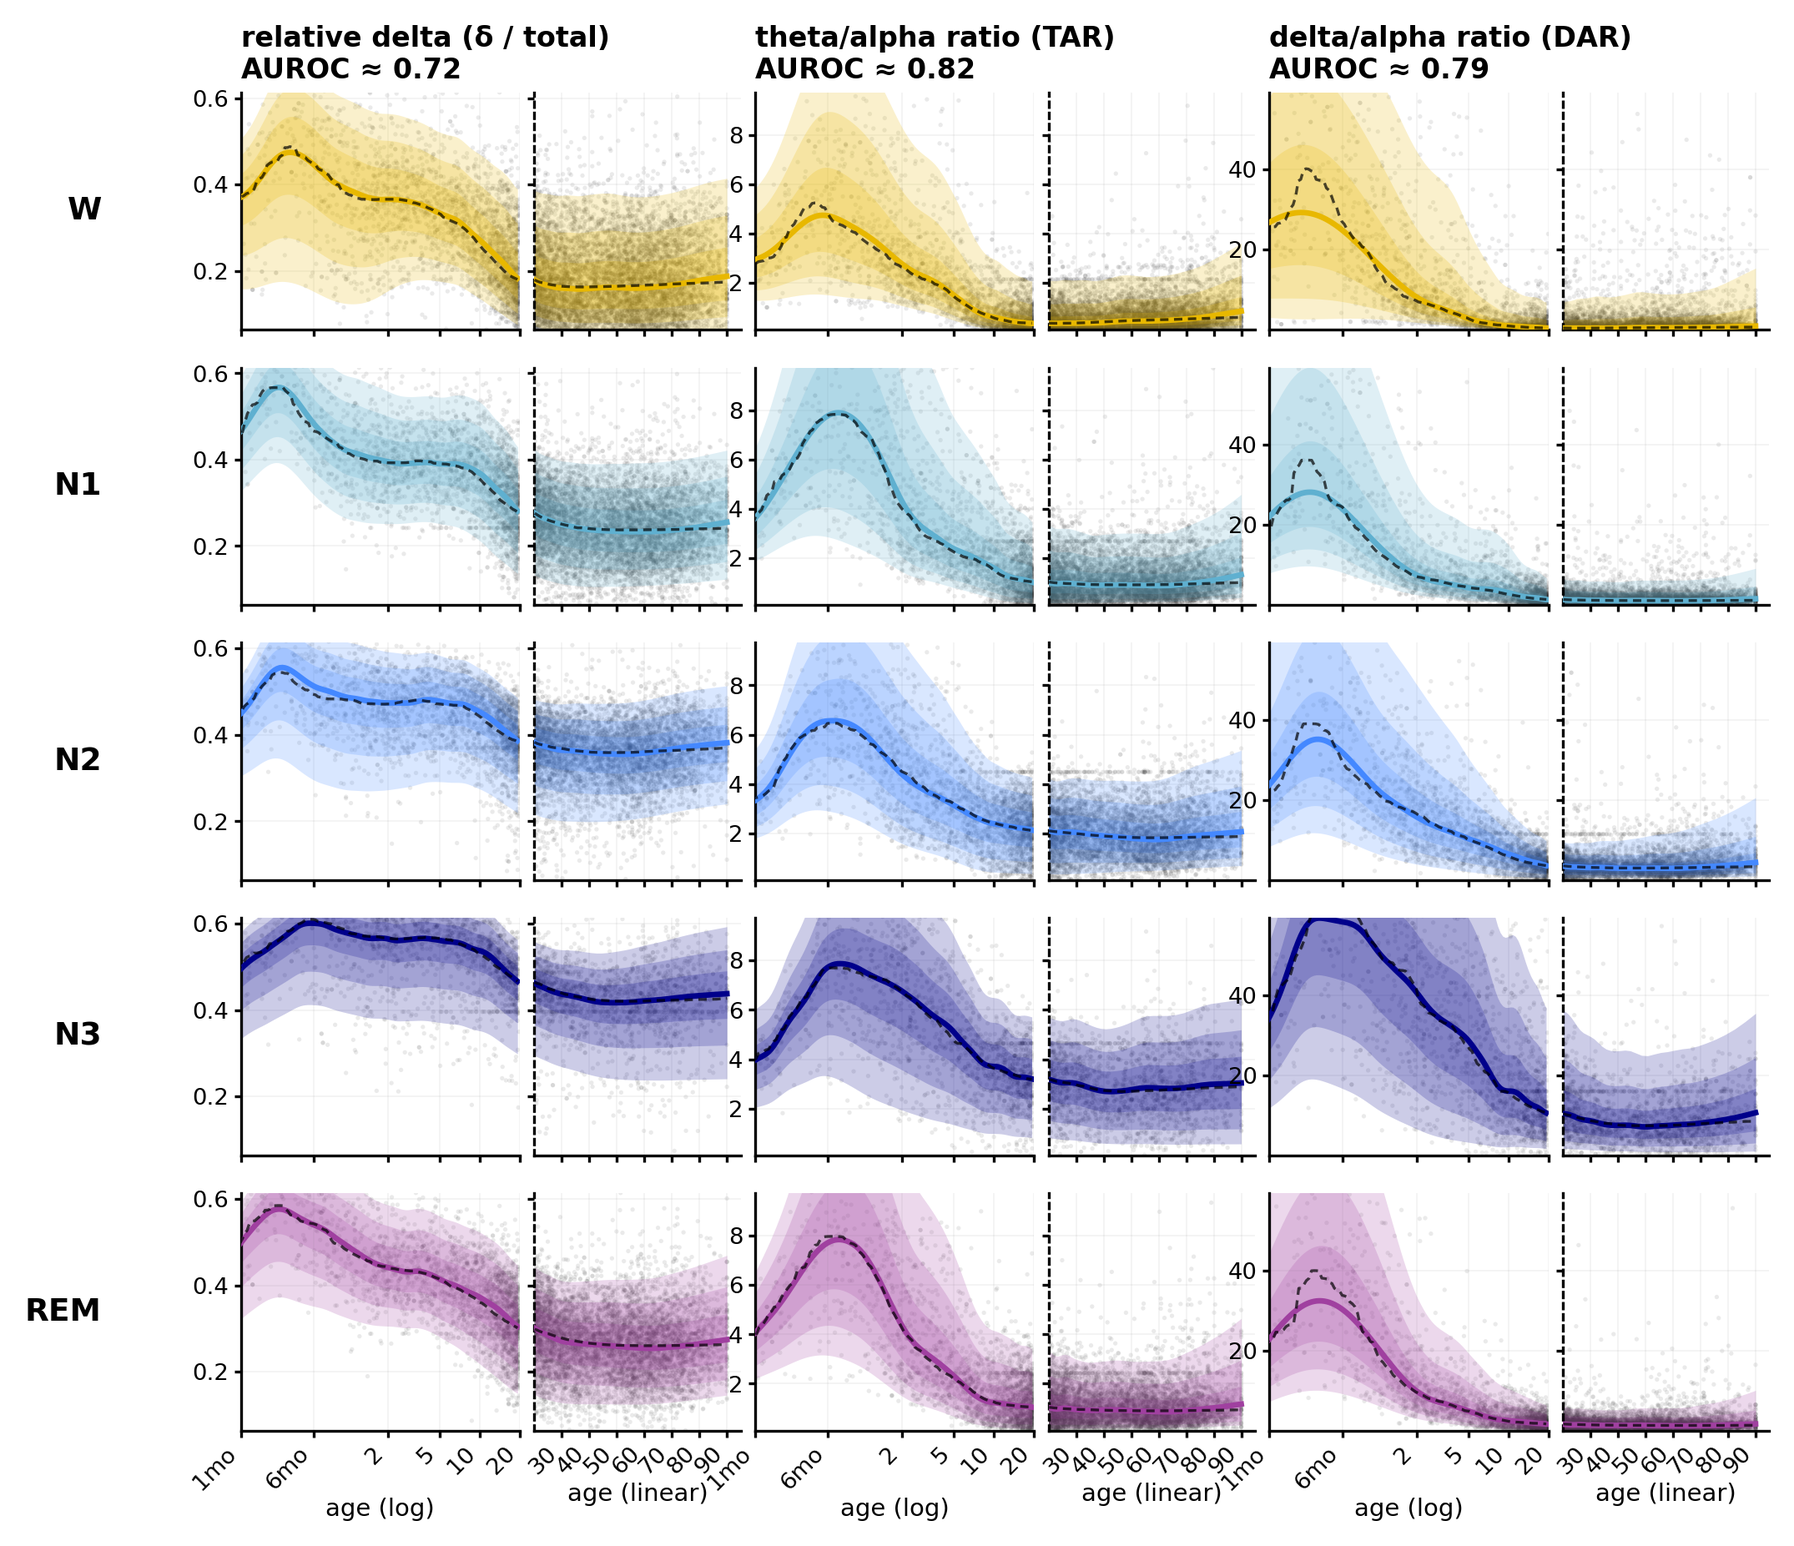
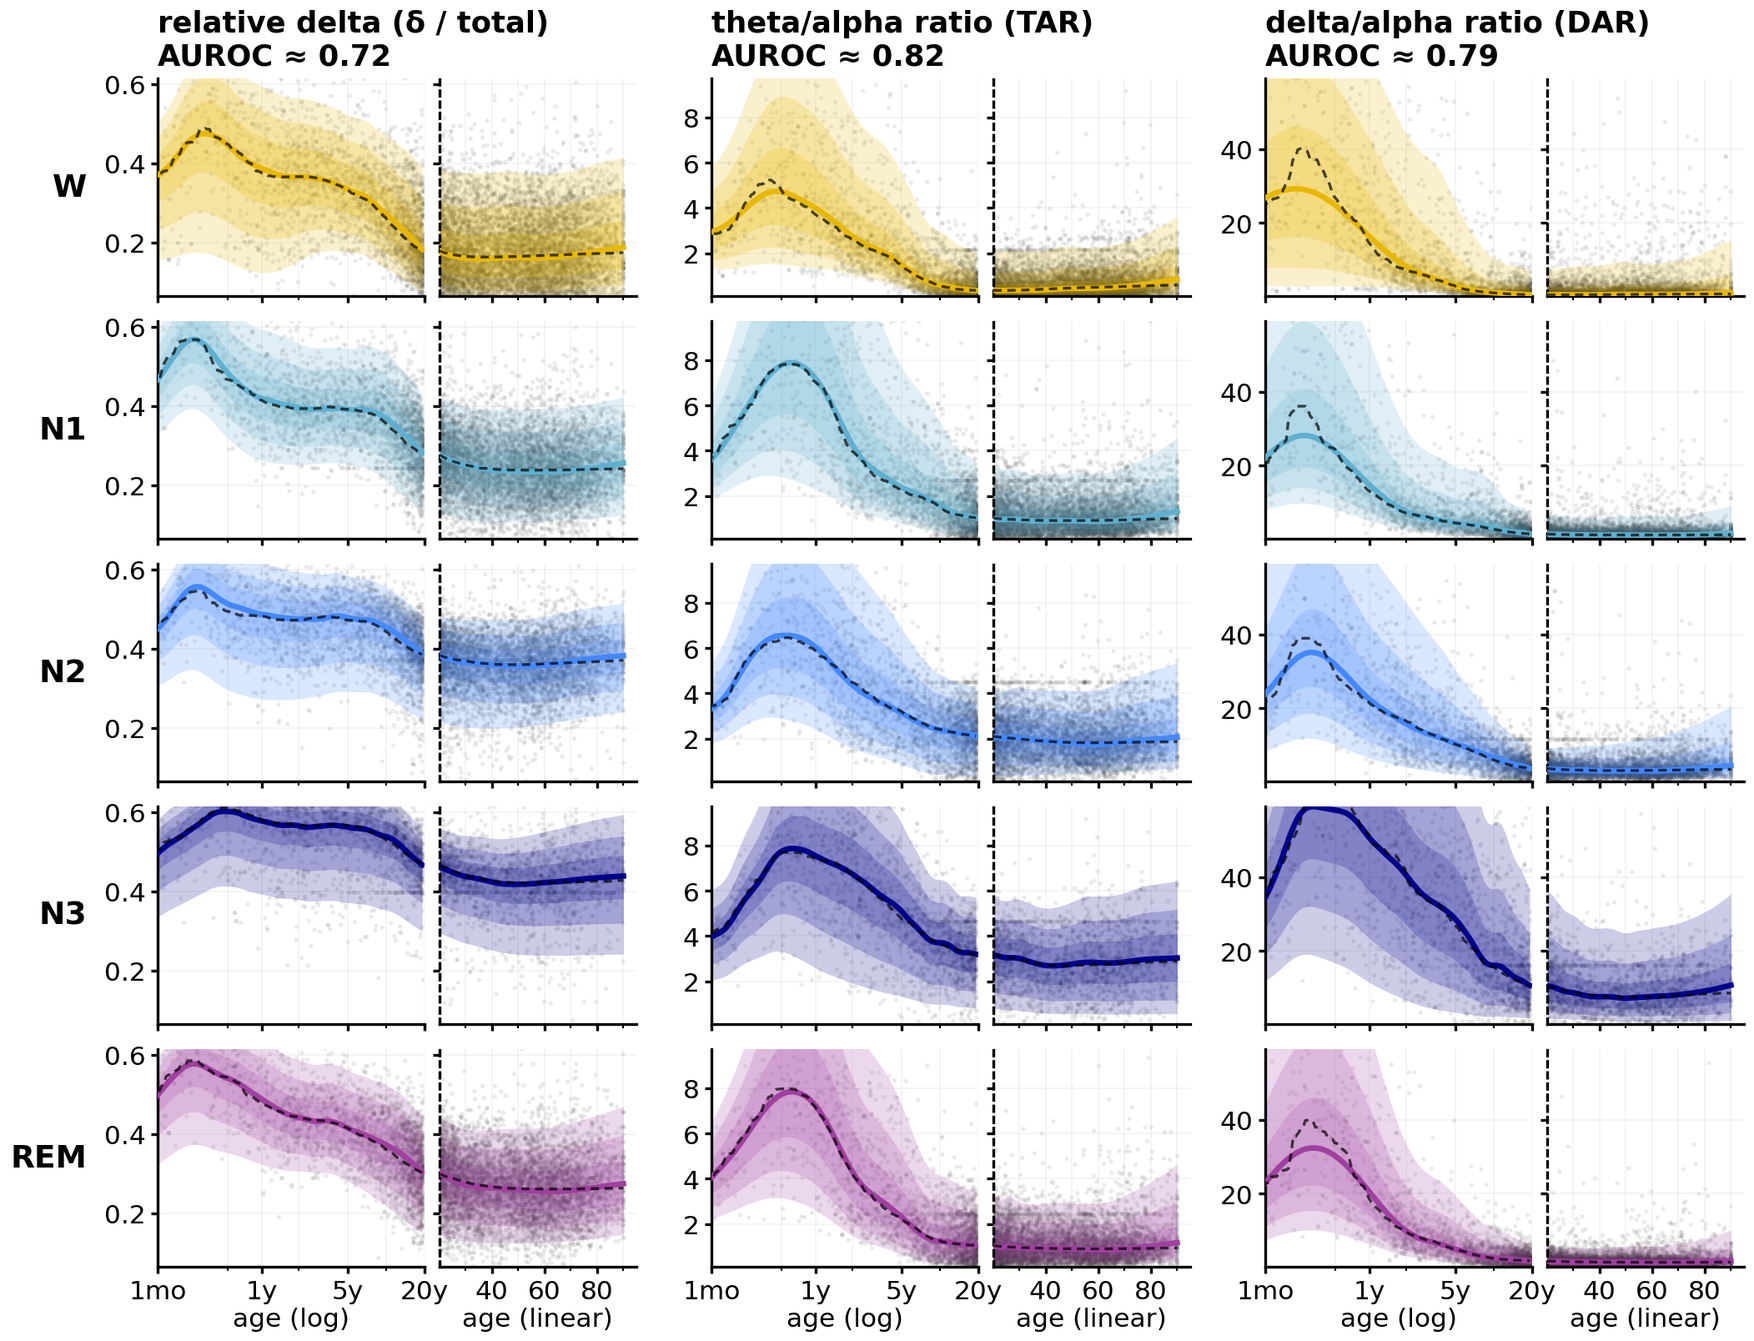
Figure 1 and S4 legible at printed size: 4.56 -> 7.57 pt, 5.68 -> 8.25 pt
Figure 1 stacked a 6.2-in growth grid over a 4.1-in topography grid: 11.0 in,
taller than a 190 x 240 mm page allows at full width, so it printed at 86% and
its 6.6 pt ticks landed at 4.6 pt. It is now 9.3 in and prints at 101%.

scripts/76 (panel A) -- axes placed in inches; a 0.30-in gutter between feature
columns, because the TAR and DAR y tick labels were drawn inside the neighbouring
column; x ticks horizontal and thinned (1mo/1y/5y/20y, 40/60/80), since the
rotated labels collided at every log/linear seam ("20" into "30", "age (linear)"
into the next column's "1mo"); y ticks pinned so shorter rows keep their values;
type 7.5-9 pt. Data, curves, bands, the model-free comparator, colours and
ranges are unchanged.

scripts/77 (panel B, Figure S4) -- row height from the head outline's own
aspect (rows were ~40% empty); horizontal stage and n labels, since rotated at a
legible size they were longer than a row; one explicitly placed colourbar on the
single shared scale; the source note on two lines; the n range with an en dash
(matplotlib printed pandoc's "--" literally).

Checked by an all-pairs text/axes overlap test (0 overlaps; the old script 76
scores 52) and by eye. results/ unchanged.

diff --git a/scripts/76_keystone_growth_grid.py b/scripts/76_keystone_growth_grid.py
@@ -13,6 +13,7 @@ import os, sys, subprocess, tempfile
 from pathlib import Path
 import numpy as np, pandas as pd
 import matplotlib; matplotlib.use("Agg"); import matplotlib.pyplot as plt
+from matplotlib.ticker import MaxNLocator
 from morgoth_slowing.viz import palette  # noqa: F401  (applies shared Tufte publication style)
 
 FEATURES = (sys.argv[1].split(",") if len(sys.argv) > 1 else ["rel_delta", "TAR", "DAR"])
@@ -36,10 +37,17 @@ BANDS = [(3, 97), (10, 90), (25, 75)]
 # aging trend cannot be read. Each cell is therefore split: log-spaced development to SPLIT_AGE, then a
 # LINEAR adult axis, drawn as two adjacent sub-axes sharing a y-scale.
 SPLIT_AGE = 20.0
-DEV_TICKS = [1/12, 6/12, 2, 5, 10, 20]
-DEV_LABELS = ["1mo", "6mo", "2", "5", "10", "20"]
-ADULT_TICKS = [30, 40, 50, 60, 70, 80, 90]
-ADULT_LABELS = ["30", "40", "50", "60", "70", "80", "90"]
+# Six labels per log axis and seven per linear axis, rotated 45 deg, collided at every boundary: the log axis's
+# "20" ran into the linear axis's "30", and "90" + "age (linear)" into the next feature's "1mo". The labels are
+# thinned to what fits HORIZONTALLY at a printable 7.5 pt (>= 0.07 in between neighbours); the linear axis starts
+# at 40 because 20 is already labelled "20y" at the break. The dropped positions stay as unlabelled minor ticks, so
+# the reading grid is the one the panel always had.
+DEV_TICKS = [1/12, 1, 5, 20]
+DEV_LABELS = ["1mo", "1y", "5y", "20y"]
+DEV_MINOR = [6/12, 2, 10]
+ADULT_TICKS = [40, 60, 80]
+ADULT_LABELS = ["40", "60", "80"]
+ADULT_MINOR = [30, 50, 70, 90]
 def A2T(age): return np.log10(np.asarray(age, float) + 1/12)
 
 
@@ -90,18 +98,33 @@ def main():
     ncol = len(FEATURES); nrow = len(STAGES)
 
     # Sized for the page, not for the screen: the composite gives each figure 7in of width, so authoring
-    # wider than that shrinks every label below legibility (review C103). Kept at 7.1in.
+    # wider than that shrinks every label below legibility (review C103). Authored at 7.0 in.
     # Height budget is set by the PAGE, not by the screen. Figure 1 is this grid stacked over the
     # topography panel, and a journal prints the composite inside 190 x 240 mm. A composite taller than
-    # ~1.4x its width has to be scaled DOWN to fit the page height, which shrinks every label with it: at
+    # ~1.26x its width has to be scaled DOWN to fit the page height, which shrinks every label with it: at
     # the old 1.42 in/row plus a 4-line in-figure title the 5.6 pt ticks printed at ~4 pt, which is what
     # review comment C103 ("Figure 1 illegible") was actually about -- re-exporting at 300 dpi raised the
-    # resolution but not the printed point size. Shorter rows + the title moved to the caption (where CN
-    # wants it anyway) keep the composite under that limit, so nothing prints below 6 pt.
-    fig = plt.figure(figsize=(7.1, 1.22 * nrow + 0.42))
-    # two sub-columns per feature: log-age development | linear-age adulthood
-    gs = fig.add_gridspec(nrow, 2 * ncol, width_ratios=[1.35, 1.0] * ncol,
-                          hspace=0.16, wspace=0.06, left=0.135, right=0.995, top=0.935, bottom=0.115)
+    # resolution but not the printed point size. Moving the title to the caption was not enough for Elsevier's
+    # 7 pt rule: at 1.22 in/row the composite was 11.0 in tall, printed at 0.86, and 6.6 pt ticks came out at
+    # 5.5 pt. So the type is authored at 7.5 pt and ROW_H is what is left of a ~9.35-in composite (the height at
+    # which the page stops being the limit, so the figure prints at ~1.0) after the fixed text bands below and the
+    # ~3.0-in topography grid.
+    TICK_PT, LABEL_PT, HEAD_PT, STAGE_PT = 7.5, 7.5, 8.5, 9
+    FIG_W = 7.0
+    LEFT, RIGHT = 0.62, 0.04    # left: stage letter + its pad + the widest y tick labels ("0.6") of the first feature
+    # Two sub-axes per feature: log-age development | linear-age adulthood. The gap BETWEEN features holds the next
+    # feature's y tick labels (up to 0.18 in, "40") plus >= 0.1 in clear of the previous axis; a uniform 0.06-in
+    # wspace used to put TAR's "2 4 6 8" and DAR's "20 40" inside the neighbouring feature's adult axis. The gap
+    # WITHIN a pair only has to read as the break at 20 y.
+    GAP_FEAT, GAP_SPLIT = 0.30, 0.06
+    PAIR_W = (FIG_W - LEFT - RIGHT - (ncol - 1) * GAP_FEAT) / ncol
+    W_DEV = (PAIR_W - GAP_SPLIT) * 1.35 / 2.35  # development keeps its larger 1.35 : 1 share of each pair
+    W_ADULT = PAIR_W - GAP_SPLIT - W_DEV
+    HEAD, FOOT = 0.36, 0.32     # two-line bold feature header above row 0; x tick labels + age label below the last
+    ROW_GAP = 0.10              # y tick labels overhang their axes by half a line; this keeps adjacent rows' apart
+    ROW_H = 0.87                # composite 9.32 in: width-limited, with ~0.03 in to spare
+    fig = plt.figure(figsize=(FIG_W, HEAD + nrow * ROW_H + (nrow - 1) * ROW_GAP + FOOT))
+    FIG_H = fig.get_figheight()
     tsplit = A2T(SPLIT_AGE)
 
     for cj, feat in enumerate(FEATURES):
@@ -114,9 +137,11 @@ def main():
             emp = rolling_pctile(sub.t.values, sub.val.values, cv.t.values, 0.5) if len(cv) else None
             axes_pair = []
             for k in (0, 1):                                     # 0 = development (log), 1 = adult (linear)
-                ax = fig.add_subplot(gs[ri, 2 * cj + k])
-                axes_pair.append(ax)
                 dev = k == 0
+                x0 = LEFT + cj * (PAIR_W + GAP_FEAT) + (0 if dev else W_DEV + GAP_SPLIT)
+                y0 = FIG_H - HEAD - ri * (ROW_H + ROW_GAP) - ROW_H
+                ax = fig.add_axes([x0 / FIG_W, y0 / FIG_H, (W_DEV if dev else W_ADULT) / FIG_W, ROW_H / FIG_H])
+                axes_pair.append(ax)
                 # x transform: log-age on the left panel, raw years on the right
                 def X(t_arr):
                     a = 10 ** np.asarray(t_arr, float) - 1 / 12
@@ -135,40 +160,49 @@ def main():
                     if emp is not None:
                         ax.plot(xc, emp[m_c], color="k", lw=0.8, ls=(0, (3, 2)), alpha=0.7, zorder=4)
                 ax.set_ylim(ylo, yhi)
+                # Pinned to the 5 bins the auto locator gave the old, taller rows: at ROW_H with 7.5 pt labels it
+                # drops to 4, and TAR's 2-4-6-8 would become 2.5-5-7.5.
+                ax.yaxis.set_major_locator(MaxNLocator(nbins=5, steps=[1, 2, 2.5, 5, 10]))
                 ax.grid(alpha=0.16, lw=0.4)
-                ax.tick_params(labelsize=6.6, length=2, pad=1.5)
+                ax.grid(which="minor", axis="x", alpha=0.16, lw=0.4)
+                ax.tick_params(labelsize=TICK_PT, length=2, pad=1.5)
+                ax.tick_params(which="minor", length=1.2, width=0.5)
                 if dev:
                     ax.set_xlim(A2T(1 / 12), tsplit)
                     ax.set_xticks(A2T(DEV_TICKS))
-                    ax.set_xticklabels(DEV_LABELS if ri == nrow - 1 else [], rotation=45, ha="right")
+                    ax.set_xticks(A2T(DEV_MINOR), minor=True)
+                    ax.set_xticklabels(DEV_LABELS if ri == nrow - 1 else [])
                     ax.spines["right"].set_visible(False)
                 else:
                     ax.set_xlim(SPLIT_AGE, 95)
                     ax.set_xticks(ADULT_TICKS)
-                    ax.set_xticklabels(ADULT_LABELS if ri == nrow - 1 else [], rotation=45, ha="right")
+                    ax.set_xticks(ADULT_MINOR, minor=True)
+                    ax.set_xticklabels(ADULT_LABELS if ri == nrow - 1 else [])
                     ax.spines["left"].set_linestyle((0, (2, 2)))
                     ax.tick_params(labelleft=False)
                 # y ticks on the LEFT panel of every feature: the three features are on different scales,
                 # so hiding all but the first column leaves two thirds of the grid without a readable axis.
                 if k == 0:
                     if cj == 0:
-                        ax.set_ylabel(stage, fontsize=9, fontweight="bold", rotation=0,
-                                      ha="right", va="center", labelpad=26)
+                        ax.set_ylabel(stage, fontsize=STAGE_PT, fontweight="bold", rotation=0,
+                                      ha="right", va="center", labelpad=5)
                 else:
                     ax.tick_params(labelleft=False)
             if ri == 0:
                 axes_pair[0].set_title(f"{FEAT_LABEL.get(feat, feat)}\nAUROC ≈ {FEAT_AUC.get(feat, 0):.2f}",
-                                       fontsize=8, fontweight="bold", loc="left", pad=4)
+                                       fontsize=HEAD_PT, fontweight="bold", loc="left", pad=4)
             if ri == nrow - 1:
-                axes_pair[0].set_xlabel("age (log)", fontsize=7, labelpad=1)
-                axes_pair[1].set_xlabel("age (linear)", fontsize=7, labelpad=1)
+                axes_pair[0].set_xlabel("age (log)", fontsize=LABEL_PT, labelpad=1)
+                axes_pair[1].set_xlabel("age (linear)", fontsize=LABEL_PT, labelpad=1)
 
     # No in-figure title: what it used to say (region, sex pooling, BCT fit, the dashed model-free median,
     # the three percentile bands, the log/linear age split) now lives in the Figure 1 caption in
     # docs/manuscript_draft.md, which is where Clinical Neurophysiology wants it and where it costs no
     # printed height. Keep the two in sync when either changes.
     out = Path("figures/growth_v2/keystone_growth_grid.png"); out.parent.mkdir(parents=True, exist_ok=True)
-    fig.savefig(out, dpi=300, facecolor="white", bbox_inches="tight"); plt.close(fig)
+    # pad_inches=0.04, not the default 0.1: the saved image is scaled to a 7.0-in column, so white border costs
+    # printed type size and adds to Figure 1's height.
+    fig.savefig(out, dpi=300, facecolor="white", bbox_inches="tight", pad_inches=0.04); plt.close(fig)
     print("wrote", out, f"[region={REGION}]")
 
 

diff --git a/scripts/77_topoplots_by_age.py b/scripts/77_topoplots_by_age.py
@@ -37,6 +37,13 @@ AGE_BINS = [(0, 1/12), (1/12, 3/12), (3/12, 6/12), (6/12, 1), (1, 2), (2, 5),
             (5, 10), (10, 20), (20, 40), (40, 60), (60, 80), (80, 120)]
 BIN_LABELS = ["<1mo", "1-3mo", "3-6mo", "6-12mo", "1-2y", "2-5y", "5-10y",
               "10-20", "20-40", "40-60", "60-80", "80+"]
+# Type is sized for the PRINTED page. Figure 1 stacks this grid under the growth-curve grid (scripts/76), the pair
+# is scaled to a 7.0-in column, and the journal fits it inside 190 x 240 mm, where Elsevier requires normal
+# lettering >= 7 pt at finished size. The old 5.5-6.8 pt labels printed at 4.6-5.6 pt there. Both producers now keep
+# the composite short enough to be width-limited (page scale ~1.0), so 7.5 pt prints at ~7.5 pt and still clears
+# 7 pt if the scale slips to 0.93.
+TXT = 7.5
+STAGE_PT = 9
 
 
 def montage_info():
@@ -55,7 +62,31 @@ def to_electrodes(chan_series):
 
 
 def render(tab, info, feature):
-    fig, axes = plt.subplots(len(STAGES), len(AGE_BINS), figsize=(min(7.1, 1.7 * len(AGE_BINS)), min(7.1, 1.7 * len(AGE_BINS)) / (1.7 * len(AGE_BINS)) * 2.3 * len(STAGES)))
+    nrow, ncol = len(STAGES), len(AGE_BINS)
+    # Layout in inches, authored at the 7.0-in column it is printed in: anything wider is scaled down, and the type
+    # with it. Left band: the stage letter over its n range, both horizontal -- rotated, "n=24--2425" at 7.5 pt is
+    # 0.64 in long, longer than a row, so neighbouring rows' ranges would run into each other. Right band: the
+    # colourbar, its tick labels and its rotated label.
+    FIG_W, LABEL_W, CBAR_W = 7.0, 0.72, 0.66
+    CELL_W = (FIG_W - LABEL_W - CBAR_W) / ncol            # ~0.47 in per age bin; "6-12mo" at 7.5 pt needs 0.40
+    GAP = 0.05                                            # clear space between neighbouring heads, both directions
+    # mne draws the head (nose and ears included) with equal aspect in a box 1.07x taller than wide, so a slot of
+    # that shape holds a round, unclipped map with no dead space. That -- not the old 1.7-in-per-column rule --
+    # sets the row height: the old rows were ~40% empty, and height is what pushed Figure 1 past the page limit.
+    HEAD_W = CELL_W - GAP
+    ROW_H = 1.07 * HEAD_W + GAP
+    TOP, BOTTOM = 0.17, 0.31                              # one line of age-bin titles; the two-line source note
+    FIG_H = TOP + nrow * ROW_H + BOTTOM
+    fig = plt.figure(figsize=(FIG_W, FIG_H))
+
+    def inches(x, y, w, h):                               # [left, bottom, width, height] in figure fractions
+        return [x / FIG_W, y / FIG_H, w / FIG_W, h / FIG_H]
+
+    def row_y(ri):                                        # bottom edge of row ri's slot (row 0 at the top)
+        return FIG_H - TOP - (ri + 1) * ROW_H
+
+    axes = np.array([[fig.add_axes(inches(LABEL_W + ci * CELL_W + GAP / 2, row_y(ri) + GAP / 2,
+                                          HEAD_W, ROW_H - GAP)) for ci in range(ncol)] for ri in range(nrow)])
     # ONE colour scale for the whole grid. This was computed per stage, so each row was normalised on its
     # own range (rel_delta: W 0.2-0.4 but N3 0.5-0.6) and carried its own colourbar. The figure invites a
     # vertical comparison -- its title says "by age & sleep stage" -- but under per-row scaling the same red
@@ -83,34 +114,38 @@ def render(tab, info, feature):
             # age labels on the TOP ROW ONLY. Titling every subplot repeated the band labels five times and
             # collided them with the topoplots above; the per-row n moves beside the stage label instead.
             if ri == 0:
-                ax.set_title(BIN_LABELS[ci], fontsize=6.5)
+                ax.set_title(BIN_LABELS[ci], fontsize=TXT, pad=3)
             row_n.append(nrec)
-            if ci == 0:
-                ax.text(-0.34, 0.5, stage, transform=ax.transAxes, fontsize=8, fontweight="bold",
-                        rotation=90, va="center")
+        # Stage letter above its n range, right-aligned against the first head, both centred on the row.
+        yc = (row_y(ri) + ROW_H / 2) / FIG_H
+        xr = (LABEL_W - 0.03) / FIG_W
+        fig.text(xr, yc + 0.01 / FIG_H, stage, fontsize=STAGE_PT, fontweight="bold", ha="right", va="bottom")
         if row_n:
-            axes[ri, 0].text(-0.62, 0.5, f"n={min(row_n)}--{max(row_n)}", transform=axes[ri, 0].transAxes,
-                             fontsize=5.5, rotation=90, va="center", color="#555")
+            fig.text(xr, yc - 0.01 / FIG_H, f"n={min(row_n)}\u2013{max(row_n)}", fontsize=TXT, ha="right",
+                     va="top", color="#555")
     # No in-figure title: Clinical Neurophysiology wants the descriptive title in the caption, and a suptitle
     # here overprinted the top row's labels. What it said -- median per 10-20 electrode over patients, mean of
     # incident bipolar chains, clean-normal EEGs, the recording count -- is in the Figure 1 caption.
-    # Adjust BEFORE adding the colourbar: colorbar(ax=[...]) carves its space out of the axes' current
-    # positions, and a later subplots_adjust would move the maps back underneath it.
-    fig.subplots_adjust(top=0.97, bottom=0.035)
     if im is not None:
-        cb = fig.colorbar(im, ax=axes.ravel().tolist(), fraction=0.013, pad=0.012)
-        cb.set_label(palette.flabel(feature), fontsize=6.5); cb.ax.tick_params(labelsize=6)
+        # An explicit colourbar axes, not colorbar(ax=[...]): that carves its space out of the maps' slots and
+        # would undo the geometry above. Centred on the middle three rows, ~0.09 in clear of the last head.
+        cax = fig.add_axes(inches(LABEL_W + ncol * CELL_W + 0.06, row_y(3), 0.085, 3 * ROW_H))
+        cb = fig.colorbar(im, cax=cax)
+        cb.set_label(palette.flabel(feature), fontsize=TXT); cb.ax.tick_params(labelsize=TXT)
     # A reviewer reads the image before the caption. The n are much smaller than a pooled whole-head count for
     # the same cohort because wake comes from routine studies and sleep from overnight studies, never pooled
     # (ratio features are not comparable across acquisition types) -- so the image says so. No figure number
     # in this string: numbering moves when the text is cut, and a stale cross-reference inside a PNG is
-    # invisible to every text check.
-    fig.text(0.5, 0.005, "Source-appropriate: wake from routine studies, sleep from overnight studies, never "
-                         "pooled \u2014 so sleep-row n are far below pooled whole-head counts.",
-             ha="center", va="bottom", fontsize=6.8, color="#555")
+    # invisible to every text check. Two lines: at a printable 7.5 pt one line would be ~7.9 in, wider than the
+    # column, and would widen the saved image (shrinking everything else when it is scaled back to 7 in).
+    fig.text(0.5, 0.0, "Source-appropriate: wake from routine studies, sleep from overnight studies,\nnever "
+                       "pooled \u2014 so sleep-row n are far below pooled whole-head counts.",
+             ha="center", va="bottom", fontsize=TXT, color="#555", linespacing=1.2)
     out = Path(f"figures/growth_v2/topo_{feature}_by_age_stage.png")
     out.parent.mkdir(parents=True, exist_ok=True)
-    fig.savefig(out, dpi=300, bbox_inches="tight"); plt.close(fig)
+    # pad_inches=0.04, not the default 0.1: the saved image is scaled to a 7.0-in column, so every 0.1 in of
+    # white border shrinks the type by ~1.4% and adds printed height to Figure 1.
+    fig.savefig(out, dpi=300, bbox_inches="tight", pad_inches=0.04); plt.close(fig)
 
     # The per-cell coverage the caption quotes. Emitted as a results artifact rather than left only in the
     # figure, so scripts/certify_reproducibility.py check C can find every number the manuscript states.
